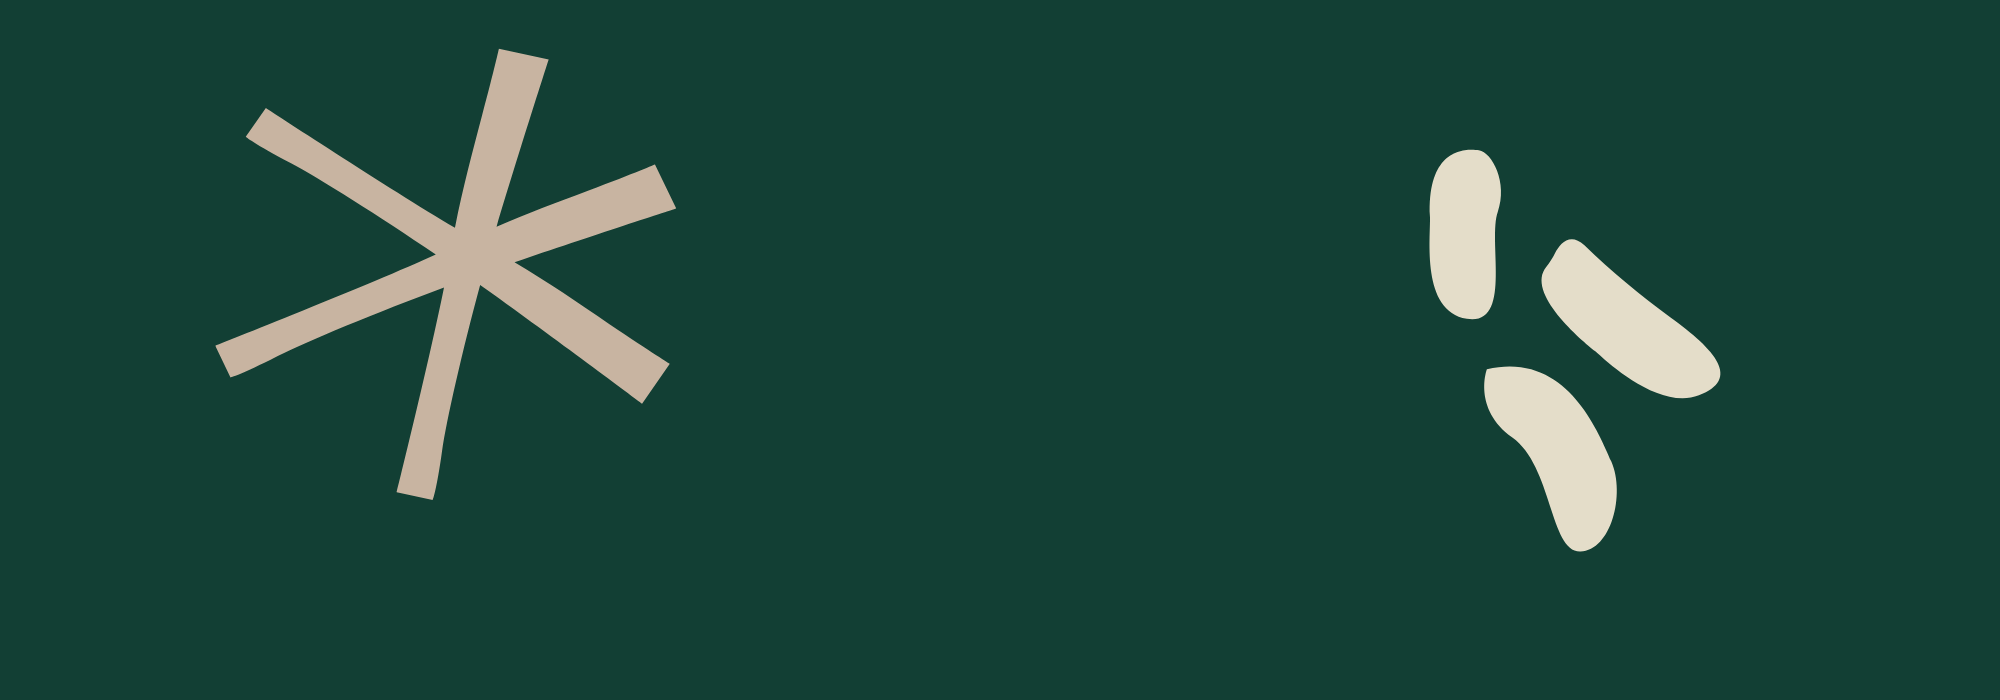
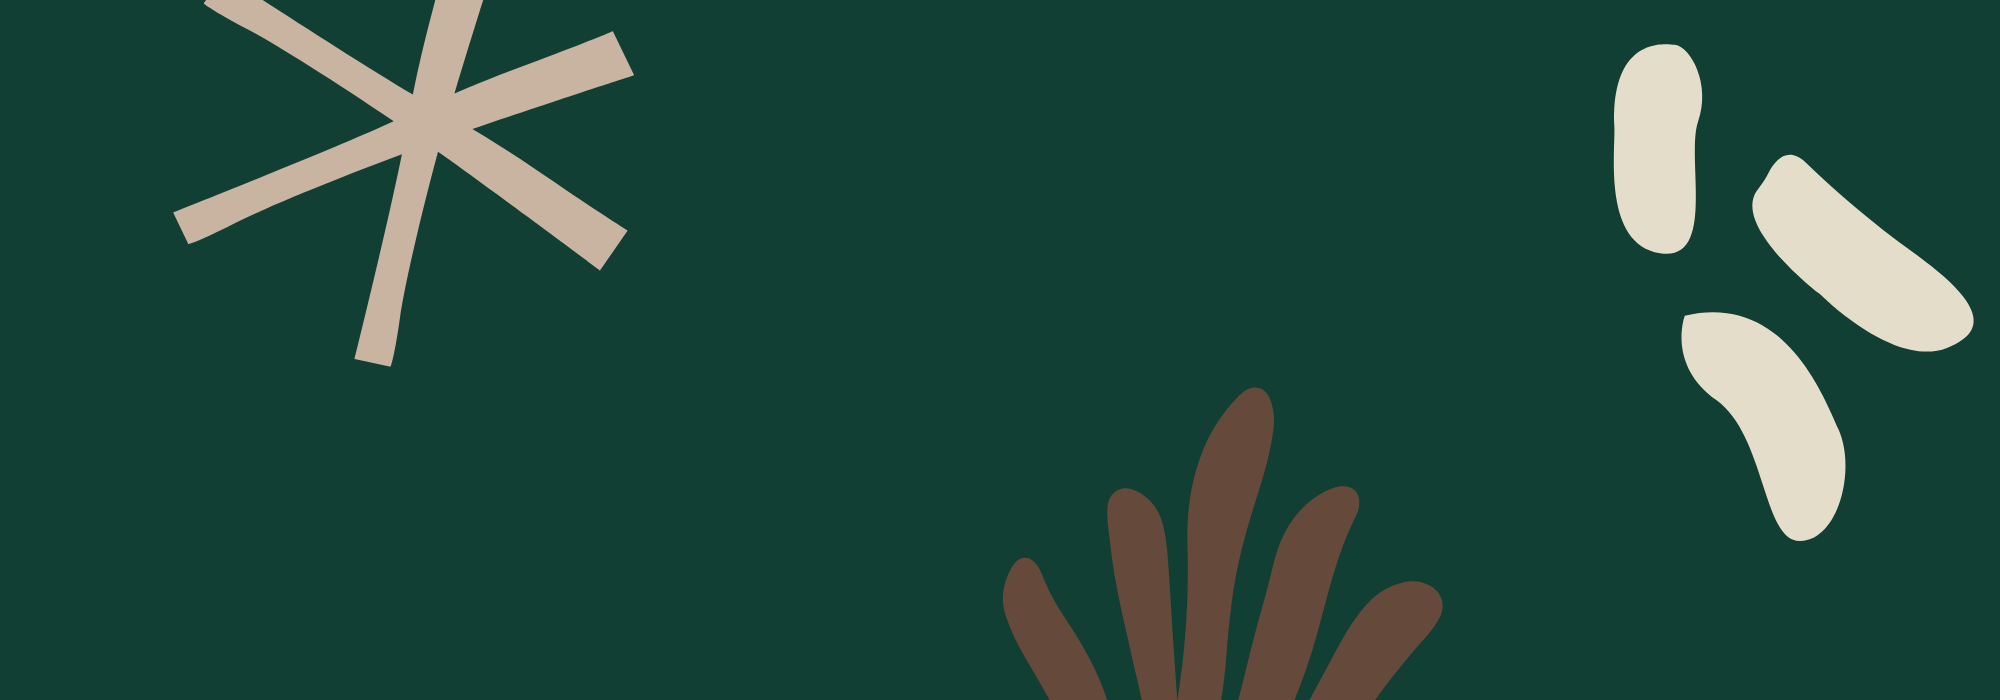
modifs header & intro

Changed region(s): [[0.713, 0.06, 0.992, 0.78], [0.062, 0.0, 0.341, 0.72], [0.496, 0.54, 0.744, 1.0]]

diff --git a/css/style.css b/css/style.css
@@ -36,7 +36,7 @@ ul {
 }
 
 :root {
-  font-size: 15px;
+  font-size: 16px;
 }
 
 /* TEXTE */
@@ -130,13 +130,13 @@ ul {
   display: flex;
   flex-direction: column;
   background-image: url(/img/background.png);
-  height: calc(50vh - 2rem);
   background-size: cover;
 }
 
 .intro__wrap {
-  padding-top: 11.5rem;
+  padding-top: 10rem;
   padding-left: 2rem;
+  padding-bottom: 2rem;
 }
 
 .intro__title {
@@ -153,6 +153,16 @@ ul {
   margin: 0.5rem 0 1rem 0;
 }
 
+@media screen and (min-width: 780px) {
+  .intro {
+    background-image: url(/img/background-lg.png);
+    background-position: center;
+  }
+  .intro__wrap {
+    padding-left: 4rem;
+    padding-bottom: 4rem;
+  }
+}
 /* HEADER  */
 .header {
   position: sticky;
@@ -178,6 +188,18 @@ ul {
   padding-top: 0.2rem;
 }
 
+.header__img {
+  width: 3rem;
+}
+
+@media screen and (min-width: 1280px) {
+  .header__lst {
+    height: 5rem;
+  }
+  .header__img {
+    width: 4rem;
+  }
+}
 /* FOOTER  */
 .footer {
   color: #654A3B;

diff --git a/index.html b/index.html
@@ -22,17 +22,17 @@
         <ul class="header__lst">
             <li class="header__search">
                 <a href="/recherche.html">
-                    <img src="/img/loupe.png" alt="icône de loupe">
+                    <img class="header__img" src="/img/loupe-lg.png" alt="icône de loupe">
                 </a>
             </li>
-            <li>
+            <li class="header__logo">
                 <a href="">
-                    <img src="/img/petit-logo-blc.png" alt="icône de logo">
+                    <img class="header__img" src="/img/logo-lg.png" alt="icône de logo">
                 </a>
             </li>
             <li class="header__nav">
                 <a href="">
-                    <img src="/img/menu-burger.png" alt="icône de menu">
+                    <img class="header__img" src="/img/menu-burger-lg.png" alt="icône de menu">
                 </a>
             </li>
         </ul>

diff --git a/scss/components/_intro.scss b/scss/components/_intro.scss
@@ -5,13 +5,14 @@
     display: flex;
     flex-direction: column;
     background-image: url(/img/background.png);
-    height: calc(50vh - 2rem);
+    // height: calc(50vh - 2rem);
     background-size: cover;
 }
 
 .intro__wrap {
-    padding-top: 11.5rem;
+    padding-top: 10rem;
     padding-left: 2rem;
+    padding-bottom: 2rem;
 }
 
 .intro__title {
@@ -26,4 +27,16 @@
     font-size: 1rem;
     color: $white;
     margin: .5rem 0 1rem 0;
+}
+
+@media screen and (min-width: 780px){
+    .intro{
+        background-image: url(/img/background-lg.png);
+        background-position: center;
+    }
+
+    .intro__wrap{
+        padding-left: 4rem;
+        padding-bottom: 4rem;
+    }
 }

diff --git a/scss/components/_header.scss b/scss/components/_header.scss
@@ -17,9 +17,24 @@
 
 .header__search {
     padding-left: .5rem;
+
 }
 
 .header__nav {
     padding-right: .5rem;
     padding-top: .2rem;
+}
+
+.header__img {
+    width: 3rem;
+}
+
+@media screen and (min-width: 1280px) {
+    .header__lst {
+        height: 5rem;
+    }
+
+    .header__img{
+        width: 4rem;
+    }
 }

diff --git a/scss/_root.scss b/scss/_root.scss
@@ -1,5 +1,5 @@
 // ROOT
 
 :root {
-    font-size: 15px;
+    font-size: 16px;
 }
